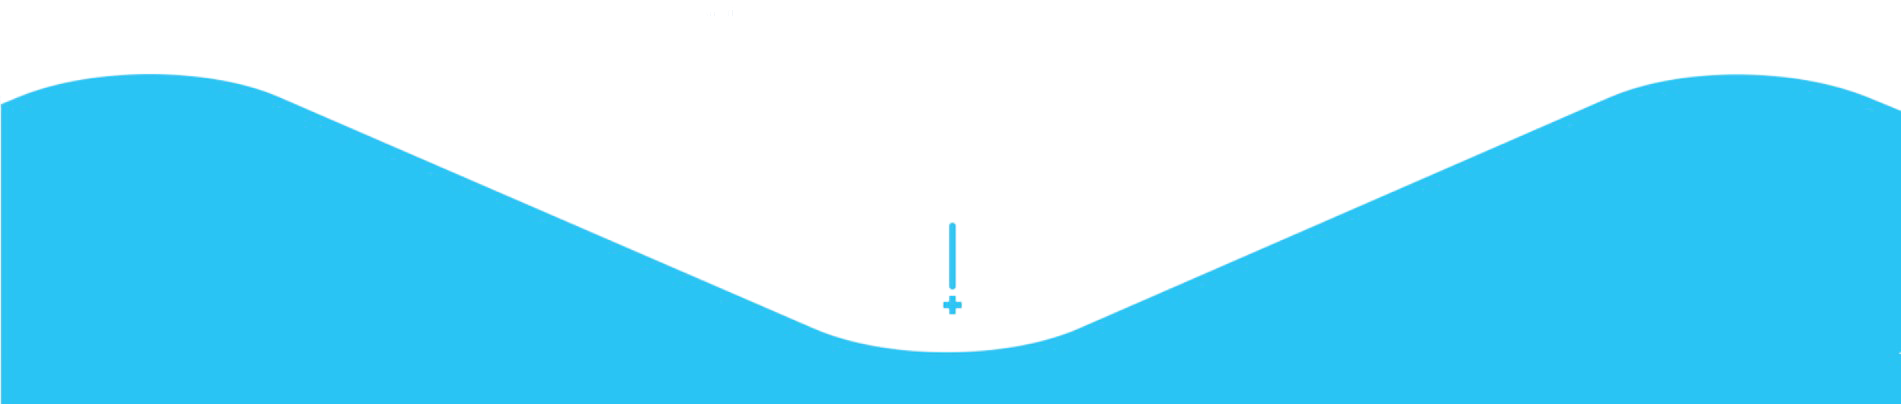
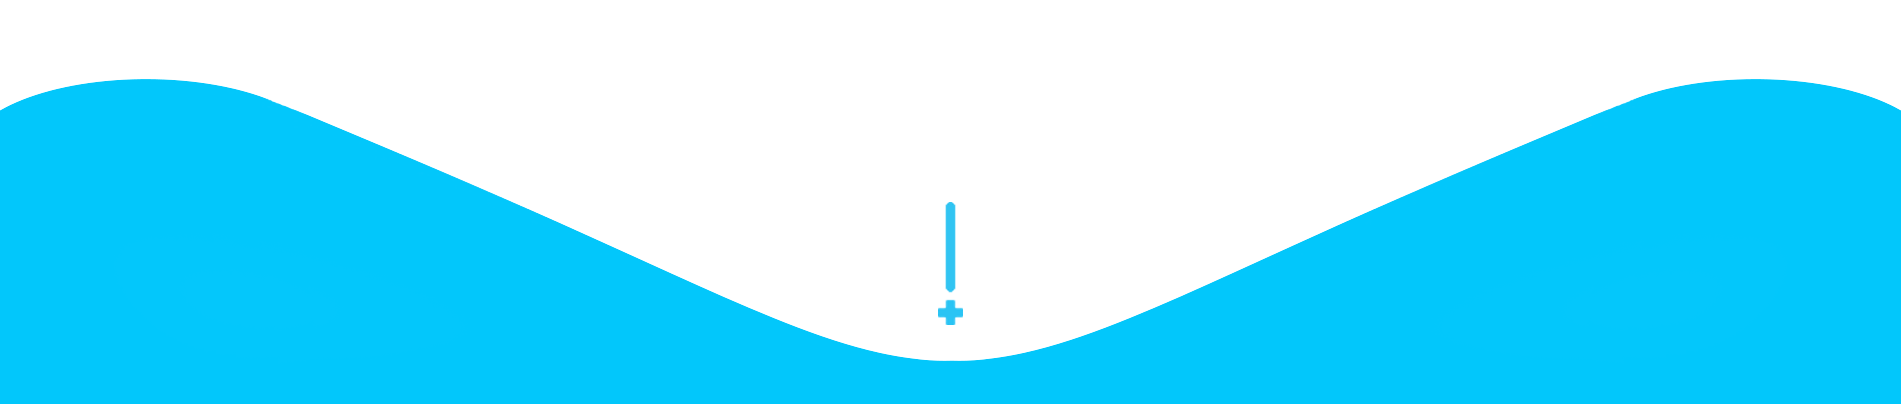
popravki grafik, tekstur
Former-commit-id: 1b91be274a40b4b6a8cf18bda8bd92bc0db1ab1c

diff --git a/styles/style.css b/styles/style.css
@@ -562,8 +562,7 @@ text-decoration:none;
                 left: 0px;
 			}
 #ambasadors{
-    background: #2ac4f4;
-    background: linear-gradient(#2ac4f4, #00c7fa);
+    background: linear-gradient(#02c7fb, #00c7fa);
 	margin-top: -4px;
 }
 #ambasadorsgradient{
